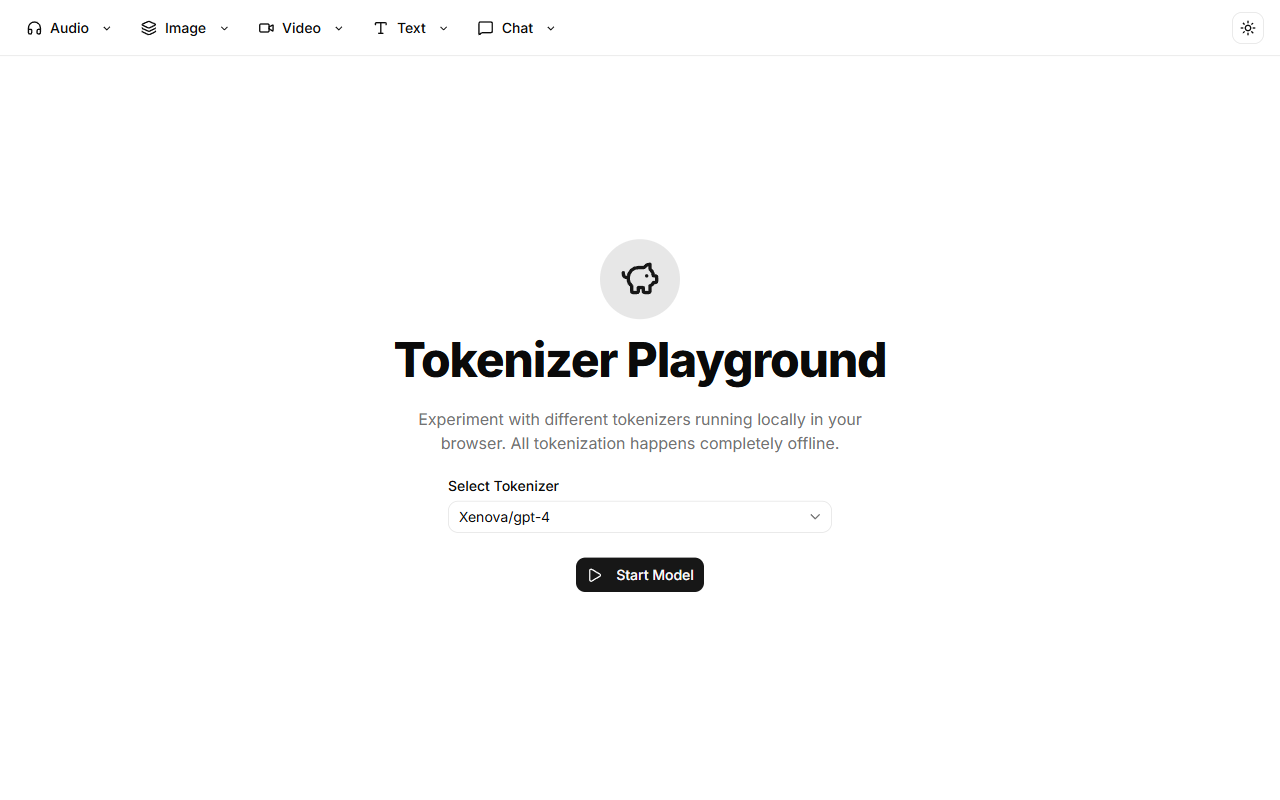
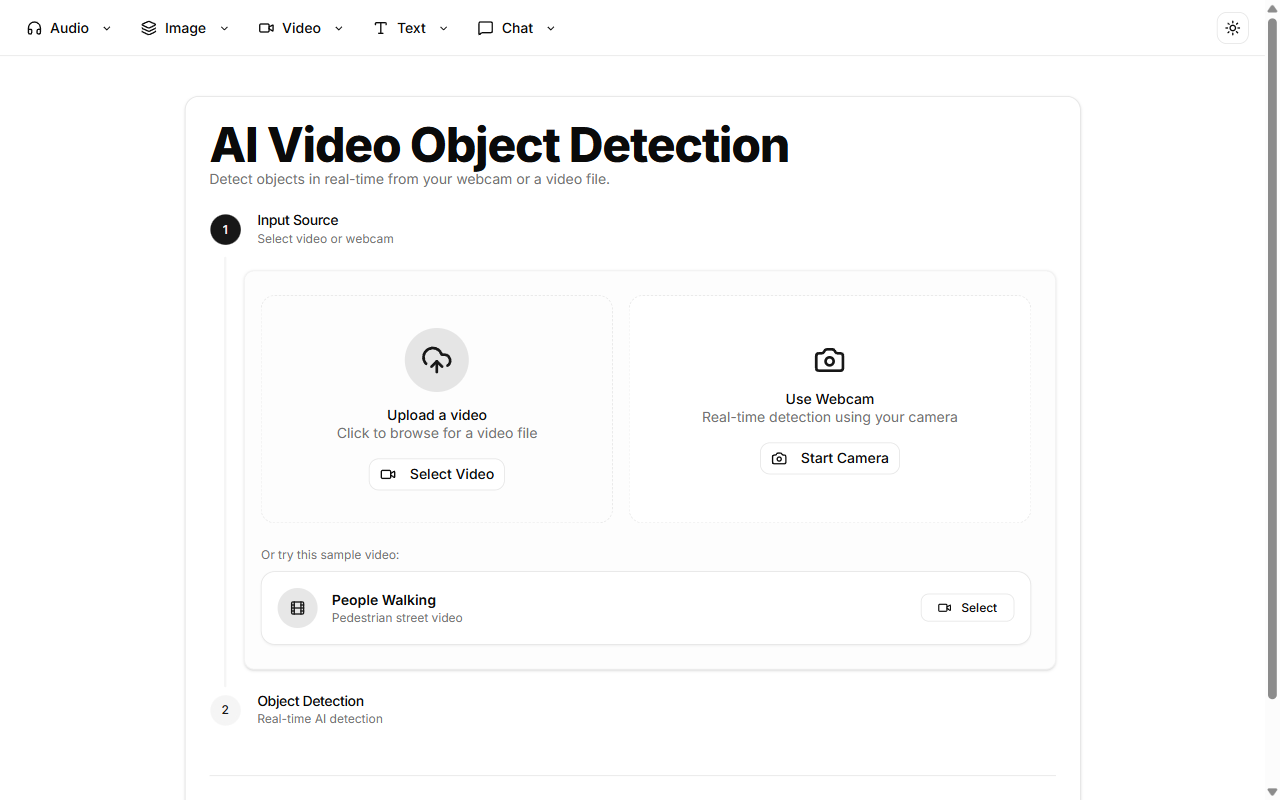
feat(screenshots): add new application screenshots and update README
Added new screenshots for several applications including DeepSeek, Llama 3, Qwen 3, Tokenizer Playground, and Translate Gemma.
Updated the main README.md to reference the new Llama 3 screenshot.
Updated individual application READMEs to include a second screenshot showcasing the loaded main interface for each.

diff --git a/README.md b/README.md
@@ -60,12 +60,12 @@ Clone voices locally in the browser.
 
 ## Screenshots Showcase
 
-Below are some highlights from our applications:
+Below are some highlights from the applications:
 
 ![Scribe](public/screenshots/scribe-1.png)
 ![Background Remover](public/screenshots/background-remover-1.png)
 ![Object Detection](public/screenshots/object-detection-1.png)
-![Llama 3](public/screenshots/llama3-1.png)
+![Llama 3](public/screenshots/llama3-2.png)
 
 ## Getting Started
 

diff --git a/src/apps/tokenizer-playground/README.md b/src/apps/tokenizer-playground/README.md
@@ -5,3 +5,7 @@ Playground for testing and understanding tokenizers.
 ## Screenshot
 
 ![Tokenizer Playground Screenshot](../../../public/screenshots/tokenizer-playground-1.png)
+
+## Main Interface (Loaded)
+
+![tokenizer-playground Loaded State](../../../public/screenshots/tokenizer-playground-2.png)

diff --git a/src/apps/translate-gemma/README.md b/src/apps/translate-gemma/README.md
@@ -5,3 +5,7 @@ Translate text using the Gemma model.
 ## Screenshot
 
 ![Translate (Gemma) Screenshot](../../../public/screenshots/translate-gemma-1.png)
+
+## Main Interface (Loaded)
+
+![translate-gemma Loaded State](../../../public/screenshots/translate-gemma-2.png)

diff --git a/src/apps/deepseek/README.md b/src/apps/deepseek/README.md
@@ -5,3 +5,7 @@ Chat with the DeepSeek language model entirely in your browser.
 ## Screenshot
 
 ![DeepSeek Screenshot](../../../public/screenshots/deepseek-1.png)
+
+## Main Interface (Loaded)
+
+![deepseek Loaded State](../../../public/screenshots/deepseek-2.png)

diff --git a/src/apps/llama3/README.md b/src/apps/llama3/README.md
@@ -5,3 +5,7 @@ Chat with the Llama 3 language model locally.
 ## Screenshot
 
 ![Llama 3 Screenshot](../../../public/screenshots/llama3-1.png)
+
+## Main Interface (Loaded)
+
+![llama3 Loaded State](../../../public/screenshots/llama3-2.png)

diff --git a/src/apps/qwen3/README.md b/src/apps/qwen3/README.md
@@ -5,3 +5,7 @@ Interact with the Qwen 3 language model.
 ## Screenshot
 
 ![Qwen 3 Screenshot](../../../public/screenshots/qwen3-1.png)
+
+## Main Interface (Loaded)
+
+![qwen3 Loaded State](../../../public/screenshots/qwen3-2.png)
